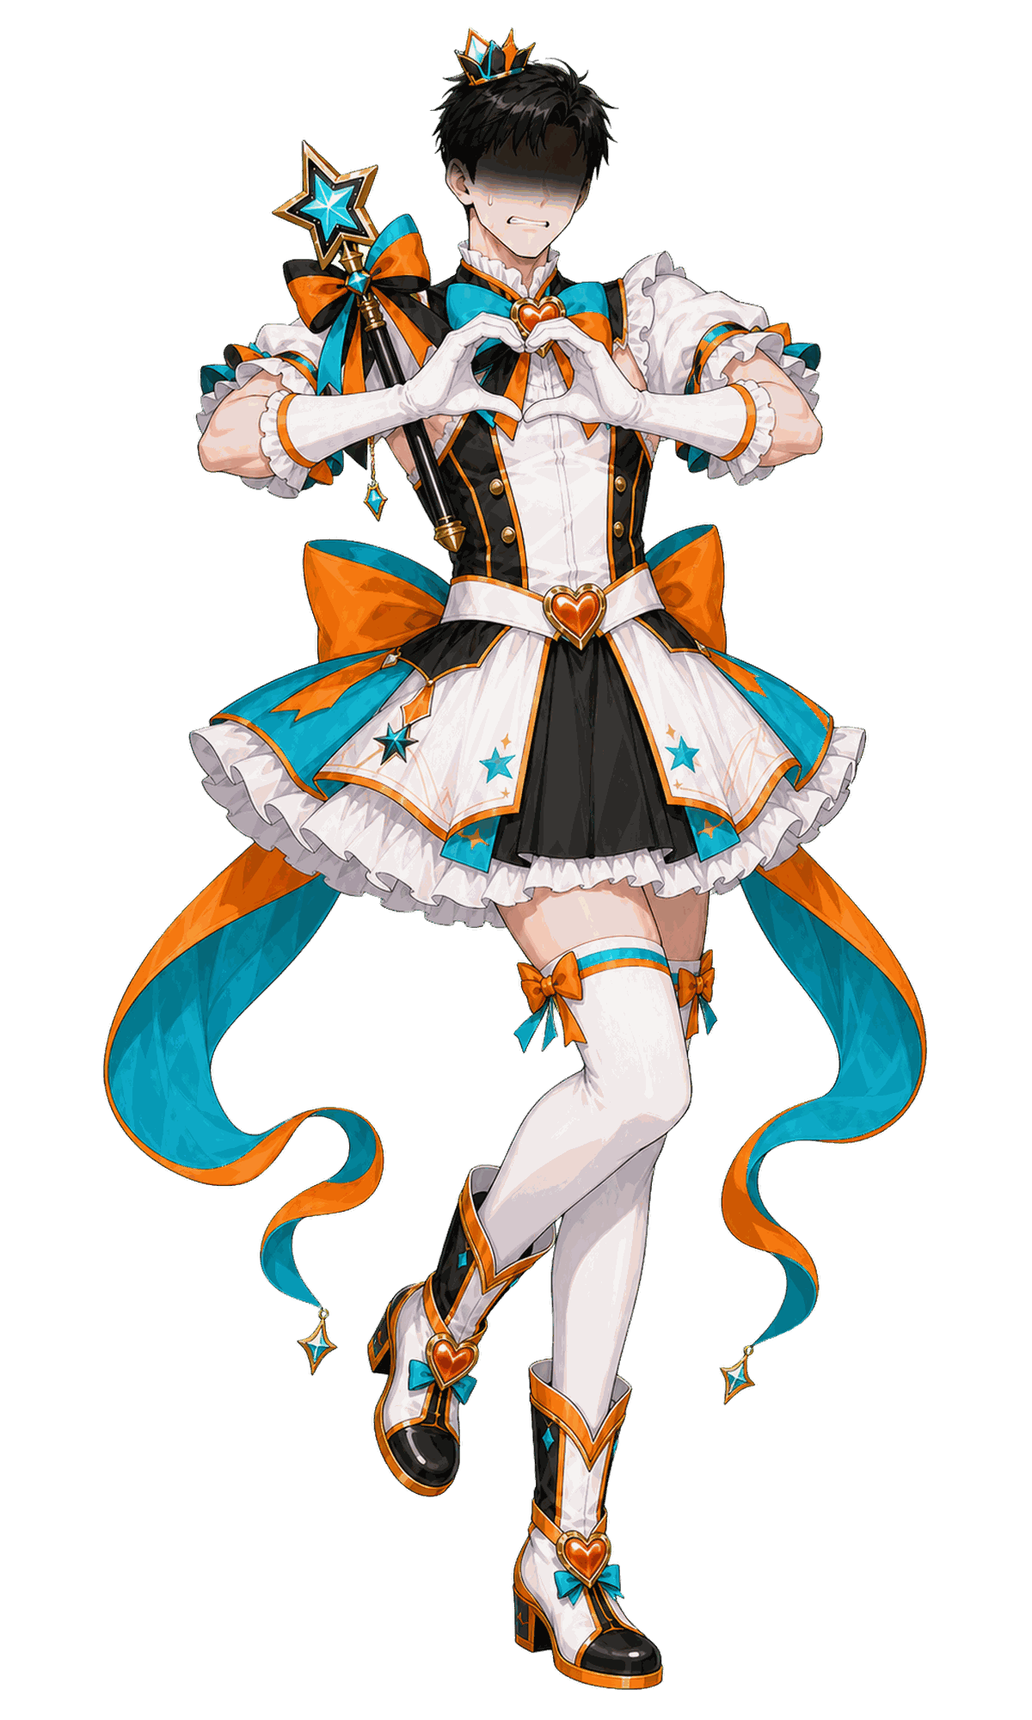
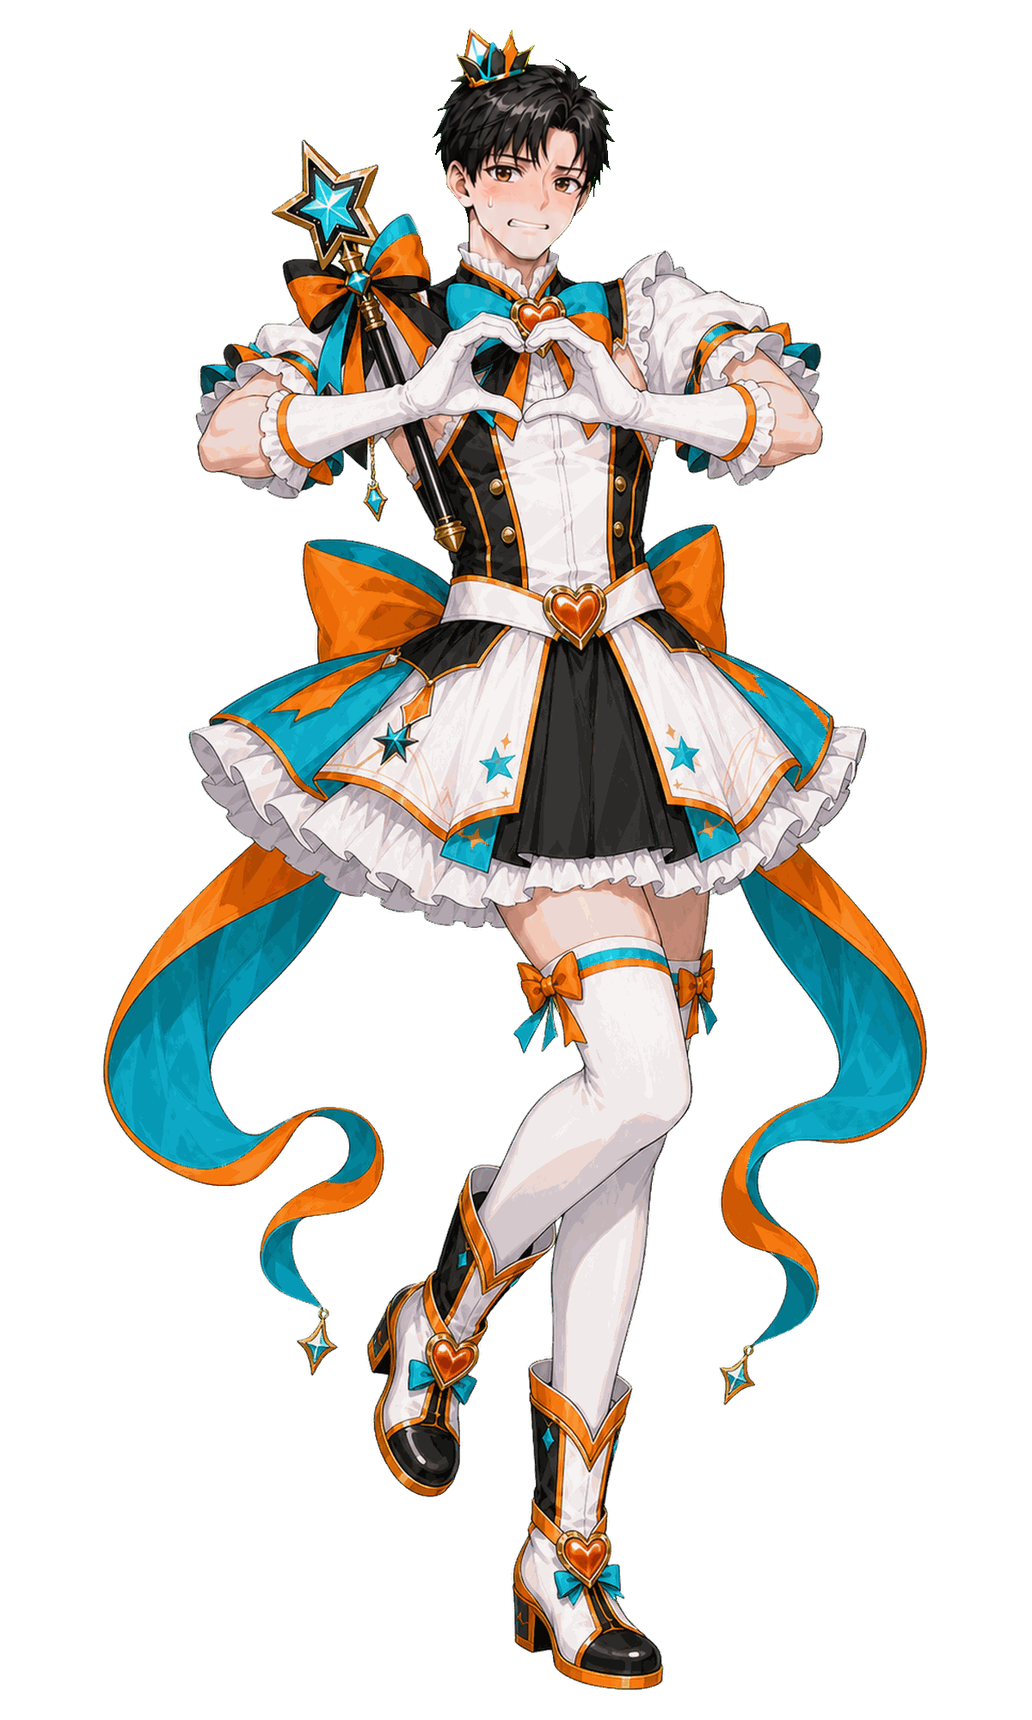
fix(ui): stabilize progress and refine Doyun expression

Changed region(s): [[0.4008, 0.0, 0.6167, 0.155]]

diff --git a/tests/v31Composition.test.ts b/tests/v31Composition.test.ts
@@ -209,9 +209,9 @@ describe("Scenario v3.1 global scene composition", () => {
     );
   });
 
-  it("Doyun magical_pose는 신규 pose 없이 표정 EDIT handoff로 남긴다", () => {
-    expect(assetManifestSource).toContain("`doyun.magical_pose`: `EDIT REQUIRED`");
-    expect(assetManifestSource).toContain("신규 pose 0장, 기존 pose EDIT 1장");
+  it("Doyun magical_pose head-only EDIT는 사람 재검수 단계로 남긴다", () => {
+    expect(assetManifestSource).toContain("`doyun.magical_pose`: `EDIT APPLIED · HUMAN_RECHECK`");
+    expect(assetManifestSource).toContain("신규 pose 0장, 기존 pose EDIT 1장 적용");
     expect(assetManifestSource).toContain("heart-hand body pose");
     expect(assetManifestSource).toContain("고통·패배가 아닌 코믹한 당혹감");
   });

diff --git a/tests/vnUiDesignSystem.test.ts b/tests/vnUiDesignSystem.test.ts
@@ -89,6 +89,15 @@ describe("Phase A VN UI design system", () => {
     expect(gameViewSource).toContain("delayedAdvanceButton(");
   });
 
+  it("pins progress actions to one bottom-right slot across core dialogue shells", () => {
+    expect(vnStylesSource).toMatch(
+      /\.vn-dialogue-shell:not\(\.battle-dialogue\):has\(\.vn-advance\)\s*\{[^}]*padding-bottom:/s,
+    );
+    expect(vnStylesSource).toMatch(
+      /\.vn-dialogue-shell:not\(\.battle-dialogue\) \.vn-advance\s*\{[^}]*position:\s*absolute;[^}]*right:[^;]+;[^}]*bottom:/s,
+    );
+  });
+
   it("aligns only the gameplay BGM HUD with the VN layer while preserving audio control callbacks", () => {
     expect(vnStylesSource).toContain(
       ".game-shell:not(.title-screen) .bgm-controls",

diff --git a/src/ui/vn.css b/src/ui/vn.css
@@ -364,11 +364,14 @@
 }
 
 .vn-dialogue-shell:not(.battle-dialogue) .vn-advance {
+  position: absolute;
+  right: clamp(22px, 2.4vw, 32px);
+  bottom: clamp(12px, 1.7vh, 18px);
   display: inline-flex;
   float: none;
   width: fit-content;
   min-height: 36px;
-  margin: 12px 0 0 auto;
+  margin: 0;
   padding: 7px 3px 7px 9px;
   align-items: center;
   border: 0;
@@ -586,6 +589,10 @@
   .vn-dialogue-shell:not(.battle-dialogue) .vn-debug-transcript button {
     justify-self: end;
   }
+}
+
+.vn-dialogue-shell:not(.battle-dialogue):has(.vn-advance) {
+  padding-bottom: clamp(50px, 6vh, 62px);
 }
 
 @media (prefers-reduced-motion: reduce) {

diff --git a/docs/assets/ASSET_MANIFEST.md b/docs/assets/ASSET_MANIFEST.md
@@ -9,9 +9,9 @@
 - `ready`: 파일 존재·기본 규격 통과.
 - `approved`: 사람 QA·라이선스 확인까지 완료.
 
-`[확정, DEC-030·034·035·036·037·040·048·077 및 2026-08-04·08-13·08-16·08-22 사용자 결정]` 물리 에셋은 `assets/source/`에 원본을 보존하고 채택본만 `assets/runtime/`에 둔다. 현재 runtime에는 확정 배경 16장, 장면에 채택한 도윤 13장, 주노 5장, 회색 망령 2장, 컷 4장(변신 2·초반 모니터 2), BGM 5곡, 로컬 폰트 3개가 있다. Vite는 runtime만 `dist/assets/`로 복사하며 source는 Pages 산출물에서 제외한다. 자동 규격·동일 바이트 검사를 통과한 파일만 `ready`다. 2026-08-16 사용자는 배경·도윤을 팀이 Codex/ChatGPT OpenAI 서비스와 당시 유료 Pro 이상 계정으로 직접 생성했고, backgrounds·Doyoon·Juno·gray wraith·transform cuts·continuity edits에는 text prompt 또는 team/project-owned internally generated asset만 input으로 사용해 외부 제3자 이미지가 없었음을 확인했다. BGM·source SFX는 생성 당시 Suno Pro였다. 2026-08-22 초반 장면 4종은 사용자가 생성·직접 제공하고 최종 사용을 승인했으며, exact 모델·작업 ID와 신규 납품본에 특화된 reference 기록은 미확인으로 유지한다. 기존 attestation을 새 납품본의 법률 승인으로 확대하지 않는다. reference-rights는 확인된 범위에서만 `USER ATTESTED / INTERNAL PROJECT LINEAGE`로 기록하며 법률 자문·제3자 허가 확인은 아니다. 사람 시각·청각 QA가 남은 자산은 `approved`가 아니다. 도구·제작자·권리는 [PROVENANCE.md](PROVENANCE.md)의 확인된 근거만 사용한다. 누락 이미지·컷은 검은 presentation, 누락 BGM은 무음으로 진행한다.
+`[확정, DEC-030·034·035·036·037·040·048·077 및 2026-08-04·08-13·08-16·08-22·08-23 사용자 결정]` 물리 에셋은 `assets/source/`에 원본을 보존하고 채택본만 `assets/runtime/`에 둔다. 현재 runtime에는 확정 배경 16장, 장면에 채택한 도윤 13장, 주노 5장, 회색 망령 2장, 컷 4장(변신 2·초반 모니터 2), BGM 5곡, 로컬 폰트 3개가 있다. Vite는 runtime만 `dist/assets/`로 복사하며 source는 Pages 산출물에서 제외한다. 자동 규격·동일 바이트 검사를 통과한 파일만 `ready`다. 2026-08-16 사용자는 배경·도윤을 팀이 Codex/ChatGPT OpenAI 서비스와 당시 유료 Pro 이상 계정으로 직접 생성했고, backgrounds·Doyoon·Juno·gray wraith·transform cuts·continuity edits에는 text prompt 또는 team/project-owned internally generated asset만 input으로 사용해 외부 제3자 이미지가 없었음을 확인했다. BGM·source SFX는 생성 당시 Suno Pro였다. 2026-08-22 초반 장면 4종은 사용자가 생성·직접 제공하고 최종 사용을 승인했으며, exact 모델·작업 ID와 신규 납품본에 특화된 reference 기록은 미확인으로 유지한다. 기존 attestation을 새 납품본의 법률 승인으로 확대하지 않는다. reference-rights는 확인된 범위에서만 `USER ATTESTED / INTERNAL PROJECT LINEAGE`로 기록하며 법률 자문·제3자 허가 확인은 아니다. 사람 시각·청각 QA가 남은 자산은 `approved`가 아니다. 도구·제작자·권리는 [PROVENANCE.md](PROVENANCE.md)의 확인된 근거만 사용한다. 누락 이미지·컷은 검은 presentation, 누락 BGM은 무음으로 진행한다.
 
-현재 `assets/runtime/`은 48개 파일, 총 `14,991,963 bytes`(`14.30 MiB`)다. 물리 에셋 30MiB 상한을 통과한다.
+현재 `assets/runtime/`은 48개 파일, 총 `15,249,369 bytes`(`14.54 MiB`)다. 물리 에셋 30MiB 상한을 통과한다.
 
 ## 이미지
 
@@ -36,7 +36,7 @@
 | `doyun.magical_defend` | `char_doyun_magical_defend.png` | 마법소녀 방어 | 1200×2000 PNG 투명 | 800KB | 필수 | ready | OpenAI Codex/ChatGPT·Pro 이상 USER ATTESTED·모델 미확인 | internal project lineage·USER ATTESTED·rights PASS 후보 | battle p1 | 자동 규격 PASS, 장면 QA 대기 |
 | `doyun.magical_attack` | `char_doyun_magical_attack.png` | 마법소녀 공격 | 1200×2000 PNG 투명 | 800KB | 필수 | ready | OpenAI Codex/ChatGPT·Pro 이상 USER ATTESTED·모델 미확인 | internal project lineage·USER ATTESTED·rights PASS 후보 | battle p2 | 자동 규격 PASS, 장면 QA 대기 |
 | `doyun.magical_finish` | `char_doyun_magical_finish.png` | 마법소녀 마무리 | 1200×2000 PNG 투명 | 800KB | 필수 | ready | OpenAI Codex/ChatGPT·Pro 이상 USER ATTESTED·모델 미확인 | internal project lineage·USER ATTESTED·rights PASS 후보 | battle p3 | 자동 규격 PASS, 장면 QA 대기 |
-| `doyun.magical_pose` | `char_doyun_magical_pose.png` | 마법소녀 포즈 | 1200×2000 PNG 투명 | 800KB | 필수 | ready | OpenAI Codex/ChatGPT·Pro 이상 USER ATTESTED·모델 미확인 | internal project lineage·USER ATTESTED·rights PASS 후보 | N5 변신 결과·전투 후 수렴 | 자동 규격 PASS, 장면 QA 대기 |
[4 lines of base64/hex data omitted]
@@ -63,11 +63,12 @@
 | `bg_street_evening` | `bg_street_evening.webp` | 배경 | 1920×1080 WebP | 500KB | 확장 | planned | 미정 | 미확인 | 현재 M5 미사용 | 제작 보류 |
 | `bg_ch2_branch` | `[제안] bg_{장소}_{상태}.webp` | 배경 | 1920×1080 WebP | 500KB | 컷 가능 | planned | 미정 | 미확인 | chapter 2 `scene.bg` | 이름·장면 대기 |
 
-### N5 변신 결과 visual-production handoff (2026-08-20)
+### N5 변신 결과 visual-production handoff (2026-08-20, 2026-08-23 적용)
 
-- `doyun.magical_pose`: `EDIT REQUIRED` — 신규 pose 0장, 기존 pose EDIT 1장.
+- `doyun.magical_pose`: `EDIT APPLIED · HUMAN_RECHECK` — 신규 pose 0장, 기존 pose EDIT 1장 적용.
 - 유지: 현행 costume, heart-hand body pose, 실루엣, 1200×2000 투명 canvas compatibility.
 - 표정 목표: “변신에 성공했지만 당황하고 벅찬 상태”. 눈은 읽히게 유지하고 full-eye 절망 shadow를 제거한다. 눈썹은 약하게 곤란한 인상, 옅은 blush, 작고 어색한 forced smile을 사용한다.
+- 적용 범위: 원본 기준 head envelope 밖 변경 픽셀 0. 몸·의상·하트손·지팡이·리본·다리 실루엣은 기존 바이트 표현을 유지하고 머리·얼굴만 교체했다.
 
 ### Phase B acting visual-production handoff (2026-08-22)
 
@@ -77,7 +78,7 @@
 - `doyun.normal_shy`: 현재 v3.1 mapping에서 제거했다. mild 관자놀이/이마 짚기 연기가 후속 승인될 때만 `EDIT 1` 후보이며 현재 필수 제작량에는 포함하지 않는다.
 - HQ-05 얼굴 continuity는 [acting/direction audit](V31_ACTING_DIRECTION_AUDIT.md#4-hq-05-transformation-face-continuity--human-decision-required)의 Option A/B 사람 결정 전까지 asset 변경 금지다.
 - 금지: 고통·패배가 아닌 코믹한 당혹감이라는 N5 결과 정서를 절망·심한 괴로움·패배 표정으로 바꾸는 것.
-- 위 승인 2종 외 binary 생성·편집은 별도 visual-production 단계 소유다. `doyun.magical_pose`, HQ-05, Juno action pose에는 손대지 않는다.
+- 위 승인 2종과 2026-08-23 사용자 지시의 `doyun.magical_pose` head-only EDIT 외 binary 생성·편집은 별도 visual-production 단계 소유다. HQ-05 전체 얼굴 continuity와 Juno action pose에는 손대지 않는다.
 
 ### 2026-08-03 배경 납품·이름 정규화 추적
 
@@ -198,4 +199,4 @@
 | `fonts/pretendard/Pretendard-Regular.woff2` | TITLE 일반 UI | 공식 v1.3.9 static WOFF2 400·765,892B | ready | 공식 GitHub release·OFL 1.1·source/runtime SHA-256 일치·HTTP 200 `font/woff2` |
 | `fonts/pretendard/Pretendard-SemiBold.woff2` | TITLE 강조 UI | 공식 v1.3.9 static WOFF2 600·785,856B | ready | 공식 GitHub release·OFL 1.1·source/runtime SHA-256 일치·HTTP 200 `font/woff2` |
 
-CDN과 외부 font request는 사용하지 않는다. 상세 출처·hash·notice는 [PROVENANCE.md](PROVENANCE.md)의 `2026-08-15 PC TITLE 로컬 폰트`를 따른다. 현재 runtime은 초반 장면 4종 채택 후 `14,991,963B`(14.30MiB)로 30MiB 상한 이하다.
+CDN과 외부 font request는 사용하지 않는다. 상세 출처·hash·notice는 [PROVENANCE.md](PROVENANCE.md)의 `2026-08-15 PC TITLE 로컬 폰트`를 따른다. 현재 runtime은 초반 장면 4종과 `doyun.magical_pose` head-only EDIT 채택 후 `15,249,369B`(14.54MiB)로 30MiB 상한 이하다.

diff --git a/docs/assets/V31_ACTING_DIRECTION_AUDIT.md b/docs/assets/V31_ACTING_DIRECTION_AUDIT.md
@@ -23,7 +23,7 @@
 | N4-C | 서먹함·회복 / 거리 유지 | opening `normal_shy`, 회복 `smile`, 거리 `tired` | opening facepalm 과도 | 중립 긴장 / 회복 / 거리 | opening `normal`, 나머지 유지 |
 | N5 line 0 | 사원증 발광·부상 | `normal_shy` | 사건 focal과 무관한 절망 | 사원증을 보는 surprise/disbelief | 사용자 승인 `doyun.employee_id_surprised` 전용 매핑, 사람 재검수 대기 |
 | N5 line 1~2·incantation | 망령 압박·주노 시범·낭독 | `normal_shy` | 계속 무너진 인상 | 압박을 견디고 행동 | `normal`로 `REMAP` |
-| N5 transformed-live | 변신 결과 | `magical_pose` | 몸은 적합, 얼굴은 고통/패배 | 성공+당황+벅참 | body `KEEP`, 얼굴 `EDIT 1` 유지 |
+| N5 transformed-live | 변신 결과 | `magical_pose` | 몸은 적합, 얼굴은 고통/패배 | 성공+당황+벅참 | body `KEEP`, head-only `EDIT 1` 적용·`HUMAN_RECHECK` |
 
 `normal_shy` binary는 삭제하지 않는다. 다만 현재 v3.1 runtime mapping에서는 제거했고, mild facepalm을 다시 쓸 경우 먼저 표정·손 위치 EDIT와 사람 QA가 필요하다.
 
@@ -48,8 +48,8 @@
 
 | 선택지 | 서사·시각 장점 | asset 영향 | 주의 |
 |---|---|---|---|
-| **A — Transformation Reveal** | 변신 CUT을 첫 full-face reveal로 삼고 이후에도 감정이 열린 도윤을 유지한다. 변화의 의미가 강하고 CUT→live 연속성이 좋다. | 현재 실제 post-transform 사용본 `magical_pose`, `magical_defend`, `magical_attack`, `magical_finish` 4장 눈/얼굴 EDIT. dormant fallback `magical`까지 family를 맞추면 1장 추가. `magical_pose`는 HQ-07 얼굴 EDIT와 한 번에 처리 가능 | N5~N8 전 장면의 얼굴·헤어 shadow 일관성을 같이 검수해야 함 |
-| **B — Keep Eyes Obscured** | 변신 전후의 도윤 identity를 유지하고 live sprite 작업량을 줄인다. | `cut_transform_01.webp`, `cut_transform_02.webp` 2장 EDIT. live 4장은 continuity 목적 edit 없음. HQ-07 `magical_pose` 표정 EDIT는 별도 유지 | 첫 얼굴 공개의 서사적 보상은 사라지며 CUT focal을 훼손하지 않는 가림 방식 필요 |
+| **A — Transformation Reveal** | 변신 CUT을 첫 full-face reveal로 삼고 이후에도 감정이 열린 도윤을 유지한다. 변화의 의미가 강하고 CUT→live 연속성이 좋다. | `magical_pose`는 2026-08-23 읽히는 눈·민망함 head-only EDIT 적용 완료. 남은 실제 post-transform 사용본 `magical_defend`, `magical_attack`, `magical_finish` 3장 눈/얼굴 EDIT. dormant fallback `magical`까지 family를 맞추면 1장 추가 | N5~N8 전 장면의 얼굴·헤어 shadow 일관성을 같이 검수해야 함 |
+| **B — Keep Eyes Obscured** | 변신 전후의 도윤 identity를 유지하고 live sprite 작업량을 줄인다. | `cut_transform_01.webp`, `cut_transform_02.webp` 2장 EDIT에 더해, 현재 읽히는 눈으로 편집된 `magical_pose`를 obscured motif로 되돌리는 1장 EDIT 필요 | 첫 얼굴 공개의 서사적 보상은 사라지며 CUT focal을 훼손하지 않는 가림 방식 필요 |
 
 관계 상태는 이 결정의 조건이 아니다. 이번 phase는 어느 안도 자동 선택하지 않는다.
 
@@ -77,8 +77,8 @@
 
 | Family | NEW | EDIT | 상태 |
 |---|---:|---:|---|
-| Doyun | 0 outstanding | 1 확정 + HQ-05 조건부 | floating ID reaction은 승인본 import 완료; `magical_pose` facial EDIT 1; mild facepalm EDIT는 선택적; HQ-05 A/B 결정 대기 |
+| Doyun | 0 outstanding | 0 확정 + HQ-05 조건부 | floating ID reaction import 완료; `magical_pose` head-only EDIT 1 적용·사람 재검수 대기; mild facepalm EDIT는 선택적; HQ-05 A/B 결정 대기 |
 | Juno | 3 | 0 | `barrier/protect`, `encourage/cast`, `point/explain` 기존 TODO 유지 |
 | Black Magical Girl | 1 | 0 | `ending.black_magical_girl` 기존 TODO 유지 |
 
-모든 수치는 visual-production inventory이며 이번 phase의 binary 변경 수는 0이다.
+모든 수치는 visual-production inventory다. Phase B 당시 binary 변경 수는 0이었고, 2026-08-23 후속 human QA에서 `magical_pose` head-only EDIT 1을 적용했다.

diff --git a/docs/assets/SCENE_ASSET_MAPPING.md b/docs/assets/SCENE_ASSET_MAPPING.md
@@ -81,7 +81,7 @@
 | `[확정·M5 필수]` | `doyun.normal_shy` | `char_doyun_normal_shy.png` | full facepalm 기존본 | 현재 v3.1 runtime mapping 없음. binary는 보존하고 재사용 전 EDIT·사람 QA |
 | `[확정·M5 필수]` | `doyun.normal_empty` | `char_doyun_normal_empty.png` | 감정과 색이 빠진 도윤 | BAD 엔딩 |
 | `[확정·M5 필수]` | `doyun.magical` | `char_doyun_magical.png` | `[임시 승인, DEC-035]` 정면 변신 완료 기본 포즈 | 변신 완료·전투 공통 폴백 |
-| `[확정·M5 필수]` | `doyun.magical_pose` | `char_doyun_magical_pose.png` | 변신 직후·전투 후 수렴 포즈 | N5 변신 결과, 수렴 |
+| `[확정·ready·사람 재검수]` | `doyun.magical_pose` | `char_doyun_magical_pose.png` | 변신 직후·전투 후 수렴 포즈. 2026-08-23 head-only EDIT로 성공+민망함 표정 반영 | N5 변신 결과, 수렴; HQ-07 `HUMAN_RECHECK` |
 | `[확정·M5 필수]` | `doyun.magical_defend` | `char_doyun_magical_defend.png` | 방어 주문 포즈 | battle p1 |
 | `[확정·M5 필수]` | `doyun.magical_attack` | `char_doyun_magical_attack.png` | 공격 주문 포즈 | battle p2 |
 | `[확정·M5 필수]` | `doyun.magical_finish` | `char_doyun_magical_finish.png` | 마지막 판정 주문 포즈 | battle p3 |
@@ -162,7 +162,7 @@
 |---|---|---|---|---|---|
 | N5 `n5_transform` 도입 | 사원증 부상·망령 압박 | `bg_hall_dark` → `bg_desk_closeup` | 첫 beat 도윤 `employee_id_surprised`, 이후 `normal` + `gray_wraith.normal` + 직전 관계의 주노 표정 | crisis/폴백 유지 | HQ-03 전용 pose를 첫 beat에만 사용. panic/horror 용도로 재사용하지 않으며 사람 actual 장면 재검수 대기 |
 | N5 주문 게이트 | 두 문장 한 번에 낭독 | `bg_desk_closeup` | 도윤 `normal`; 주문 UI 중심, 주노는 작게 유지 | 입력 중 기존 곡 duck | full facepalm 제거. 주문 전문은 DOM. 입력 중 BGM duck |
-| N5 변신 결과 | 야간 영창→완료 | `bg_transform_space` 위 컷 전면 | 도윤 `magical_pose` + `transform.cast` A2 사원증·야간 → `transform.complete` 심야 완료 | `bgm_transform` one-shot | 컷 누락 시 배경+도윤+CSS 플래시/파티클로 강등. 완전/표준/구제는 효과 강도만 다름 |
+| N5 변신 결과 | 야간 영창→완료 | `bg_transform_space` 위 컷 전면 | 도윤 `magical_pose` head-only EDIT + `transform.cast` A2 사원증·야간 → `transform.complete` 심야 완료 | `bgm_transform` one-shot | 몸·heart-hands·costume은 기존본 유지, 얼굴은 성공+민망함으로 수정. HQ-07 actual 합성 재검수 대기. 컷 누락 시 배경+도윤+CSS 플래시/파티클로 강등 |
 | `battle_wraith` / p1 `p1_defend` | 정지한 핵심 팀·게임 보호 | `bg_battle_wide` | 도윤 `magical_defend` + `gray_wraith.normal` + `juno.neutral`; 팀은 위협을 인식하지 못한 배경 실루엣 | `bgm_battle` | 방어막은 CSS/Canvas. 실패 시 `bg_hall_void` |
 | `battle_wraith` / p2 `p2_attack` | 망령 중심 공격 | `bg_hall_void` | 도윤 `magical_attack` + momentum별 망령 + `juno.happy` | 계속 `bgm_battle` | 공격 플래시 뒤에도 같은 캔버스 정렬 유지 |
 | `battle_wraith` / p3 `p3_answer` 질문 | 과거 기록·핵심 질문 | `bg_mind_archive` | 도윤 `magical_finish` + 현재 망령 상태 + `juno.neutral` | 계속 `bgm_battle`, 질문 중 일시 duck | `/project_archive/`, 소개 문구는 DOM/CSS |

diff --git a/docs/assets/AI_PRODUCTION_LOG.md b/docs/assets/AI_PRODUCTION_LOG.md
@@ -63,6 +63,7 @@
 | 날짜 | 작업 | 사용 AI 도구 | 입력 자료 | 생성 결과 | 사람이 한 검수 | 최종 사용 여부 | 사용 토큰 수 | 관련 파일 또는 커밋 |
 |---|---|---|---|---|---|---|---|---|
 | 2026-08-22 | 초반 장면 이미지 2/3/4/5 정규화·runtime 채택 | 사용자가 생성한 이미지 직접 제공; Codex는 Pillow 기계 정규화만 수행 | Doyun suspicious, employee-ID surprise, Juno monitor emergence, baked direct-wish prompt 원본 4종. exact 생성 모델·작업 ID는 미확인 | 캐릭터 2종 1200×2000 transparent PNG, CUT 2종 1920×1080 WebP. 원본은 변경 없이 보존. 분리 punctuation만 제거 | 사용자가 IMAGE 2/3/4/5 사용을 최종 승인하고 IMAGE 5 baked 문구를 asset-specific 예외로 승인. IMAGE 1 seated는 보류. 자동 규격·매핑·접근성·CUT exclusivity 검증 후 actual 장면 재검수 대기 | 4종 `ready`; IMAGE 1 `P2 OPTIONAL` 미수입. 사람 in-game QA 전 `approved` 아님 | 미측정 | `assets/source/early-scene-2026-08-22/`, `assets/runtime/{char,cut}/`, DEC-077 |
+| 2026-08-23 | `doyun.magical_pose` head-only 표정 편집 | Codex 내장 OpenAI `image_gen` + Sharp 기계 합성 | 기존 internal project `char_doyun_magical_pose.png` 단일 입력. 사용자 head color/shadow·표정 피드백 | 원본 몸·costume·heart-hands·staff를 유지하고 머리·얼굴만 검은 머리, 읽히는 눈, 옅은 blush, 어색한 미소로 교체. 1200×2000 transparent PNG | head envelope 밖 raw changed pixel 0, source/runtime 동일 바이트·566,290B·SHA-256 `9E5EEB...CB8426`. 실제 장면 사람 재검수 대기 | `ready`; HQ-07 `HUMAN_RECHECK`, `approved` 아님. HQ-05 전체 continuity 결정은 계속 OPEN | 미측정 | `assets/source/doyun/delivery/char_doyun_magical_pose.png`, `assets/runtime/char/char_doyun_magical_pose.png`, [PROVENANCE](PROVENANCE.md) |
 
 ## 기록 규칙
 

diff --git a/docs/assets/PROVENANCE.md b/docs/assets/PROVENANCE.md
@@ -217,5 +217,15 @@
 
 - 폰트 전 runtime: 11,882,465B (11.33MiB).
 - 채택 폰트: 2,293,924B.
-- 2026-08-22 초반 장면 4종 채택 후 현재 runtime: 14,991,963B (14.30MiB), 48 files.
+- 2026-08-23 `doyun.magical_pose` head-only EDIT 채택 후 현재 runtime: 15,249,369B (14.54MiB), 48 files.
 - 30MiB 상한을 유지한다.
+
+## 2026-08-23 `doyun.magical_pose` head-only 표정 편집
+
+- 입력은 기존 internal project asset `assets/source/doyun/delivery/char_doyun_magical_pose.png` 하나다. 외부 제3자 reference는 추가하지 않았다.
+- 사용자 actual play QA에서 몸·costume·heart-hands는 유지하고, 머리의 부자연스러운 회색 shadow/color와 절망·고통으로 읽히는 표정만 “변신 성공 후 민망하고 벅찬 상태”로 수정하도록 지시했다.
+- Codex 내장 OpenAI `image_gen`으로 검은 머리·읽히는 눈·옅은 blush·작고 어색한 미소의 head reference를 생성했다. exact 모델·버전·work ID는 도구가 노출하지 않아 `UNKNOWN`이다.
+- 생성 reference를 현재 1200×2000 좌표에 맞춘 뒤 head envelope만 합성했다. 자동 raw-pixel 비교에서 head envelope 밖 변경 픽셀은 0이며 몸·의상·하트손·지팡이·리본·다리 실루엣은 이전 채택본을 유지한다.
[2 lines of base64/hex data omitted]
+- HQ-07은 `HUMAN_RECHECK`다. 이 편집은 HQ-05의 post-transform 전체 얼굴 continuity A/B 결정을 닫지 않으며, 사람 in-game QA 전 상태는 계속 `ready`이고 `approved`가 아니다.
